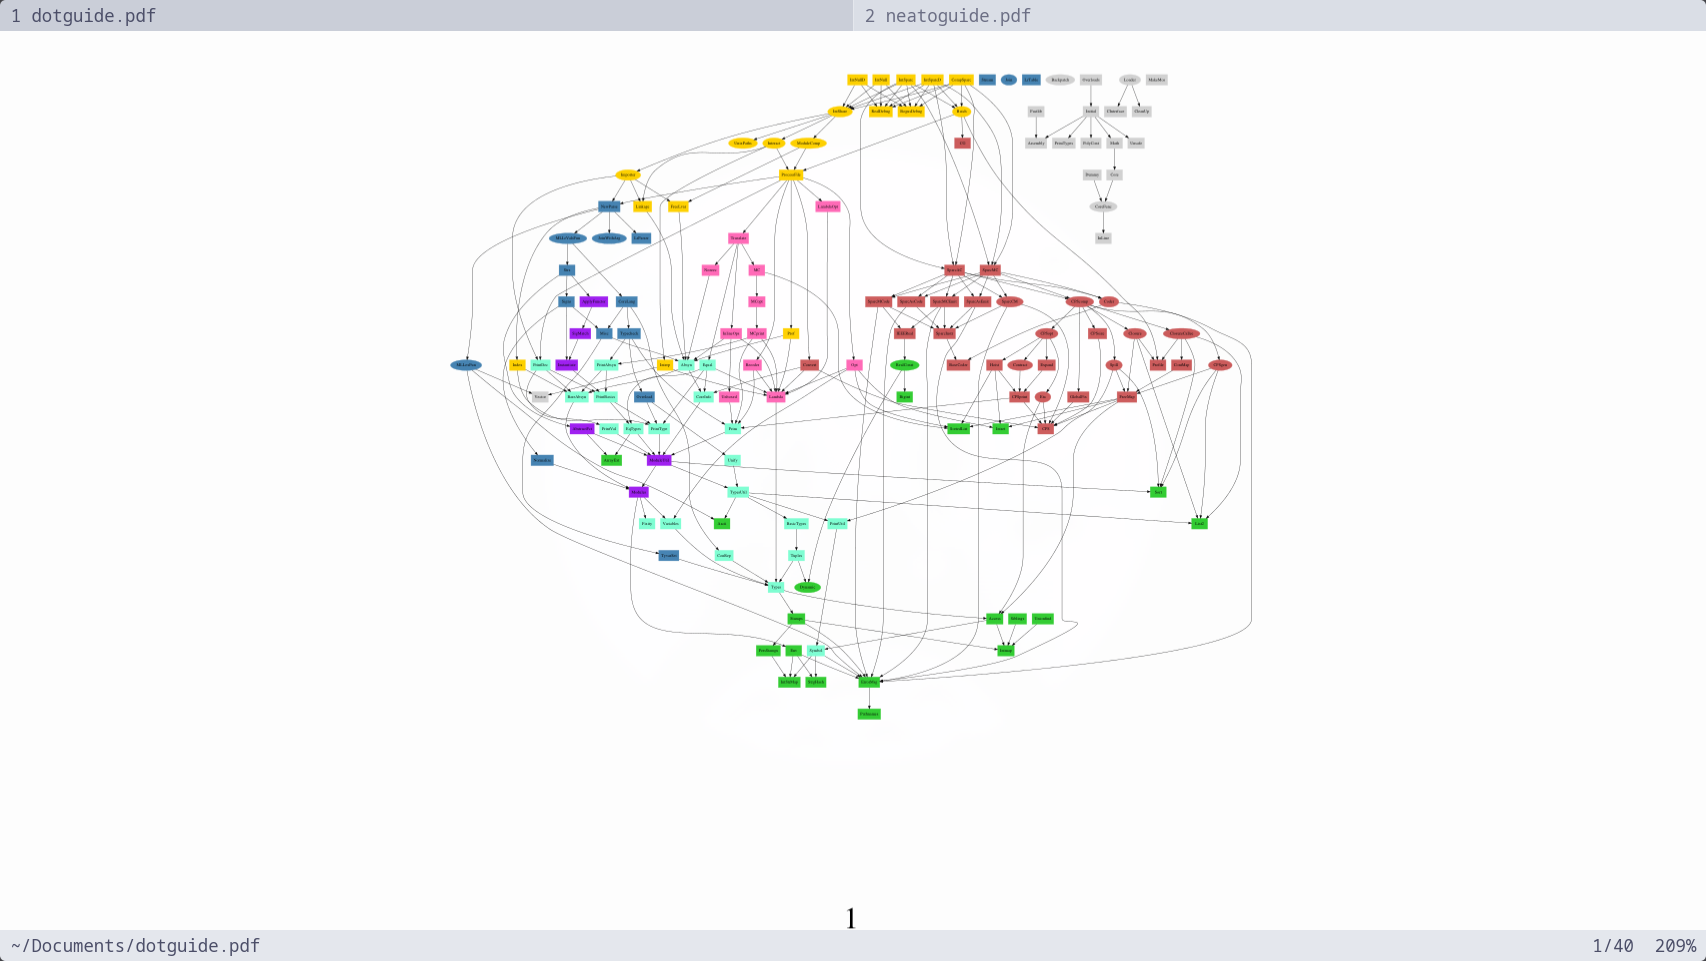
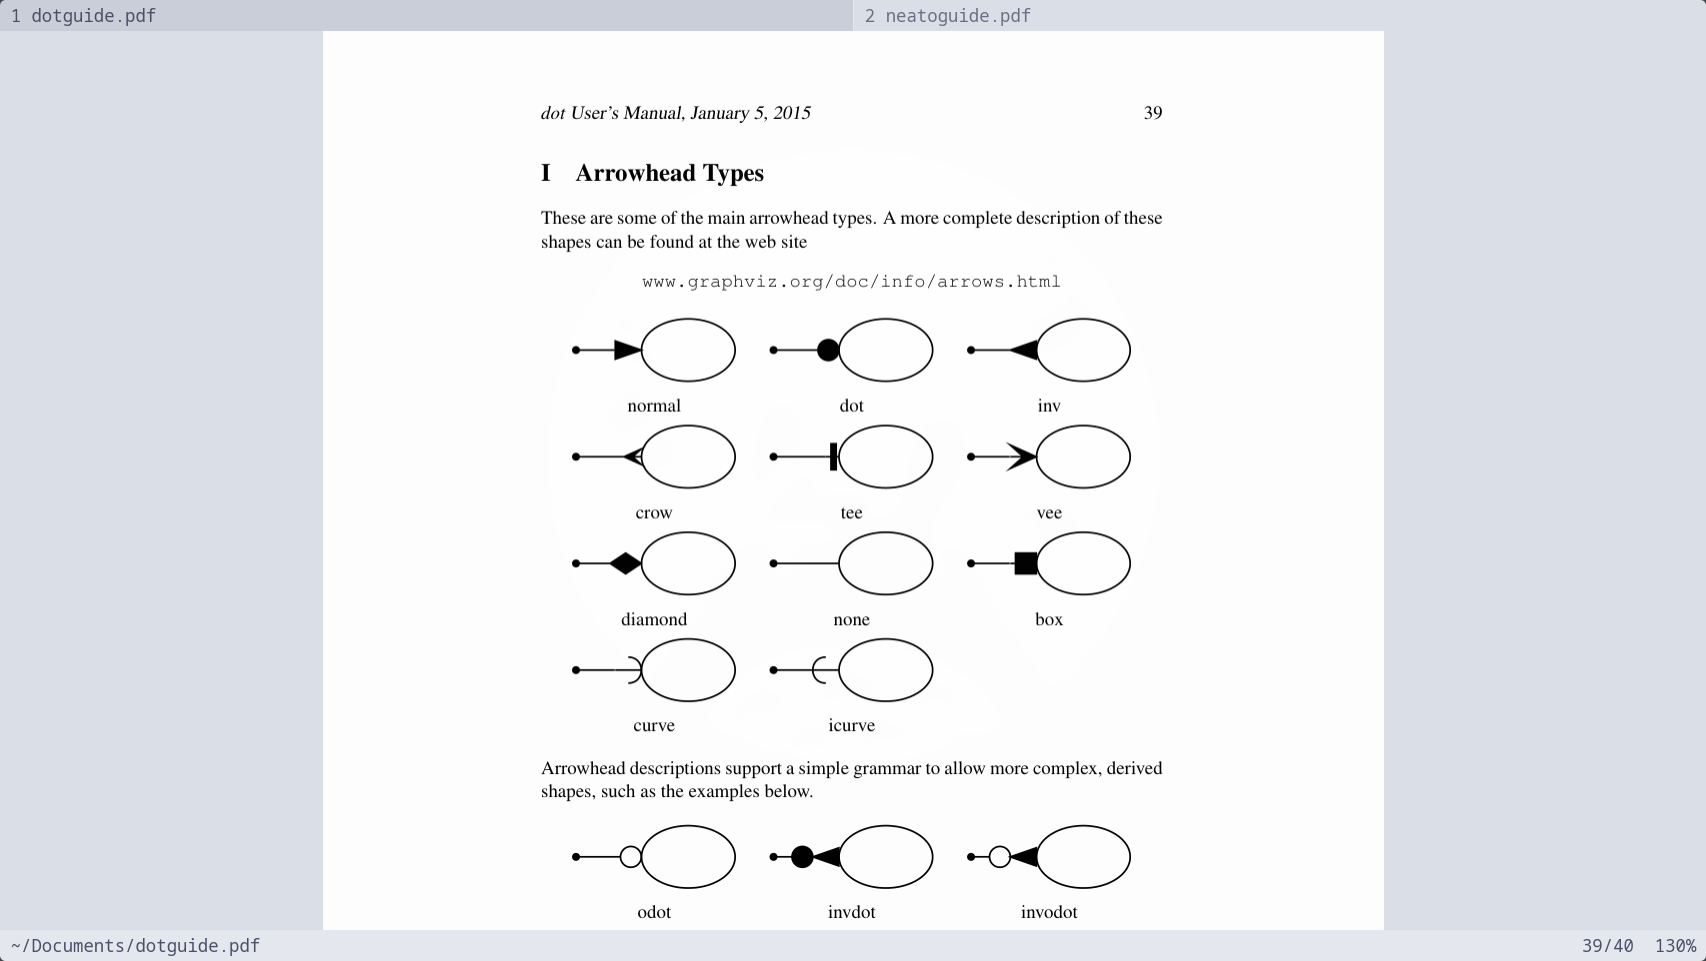
Show a page of text and a figure in the first screenshot

diff --git a/README.md b/README.md
@@ -4,7 +4,7 @@ A minimal, keyboard-driven PDF reader with vi key bindings.
 
 pdvim uses [MuPDF](https://mupdf.com/) to render pages and [iced](https://iced.rs/) to draw the window. Pages are laid out in one continuous column. It also remembers where you stopped reading each document.
 
-![pdvim showing a graph from the Graphviz manual, with two tabs open](docs/screenshots/reading.png)
+![pdvim showing a page of text and figures from the Graphviz manual, with two tabs open](docs/screenshots/reading.png)
 
 ## Features
 
